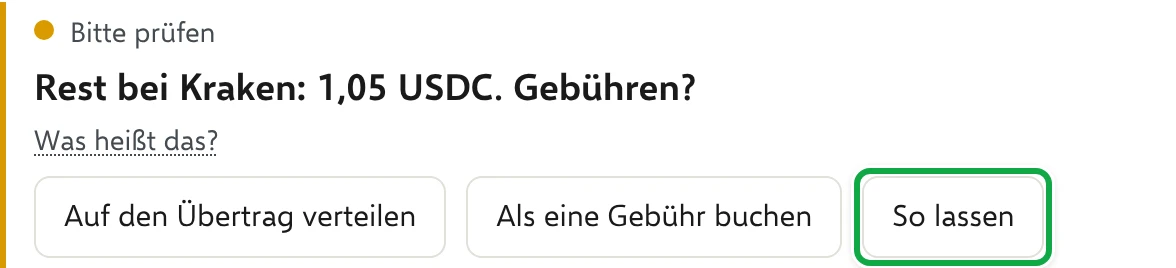
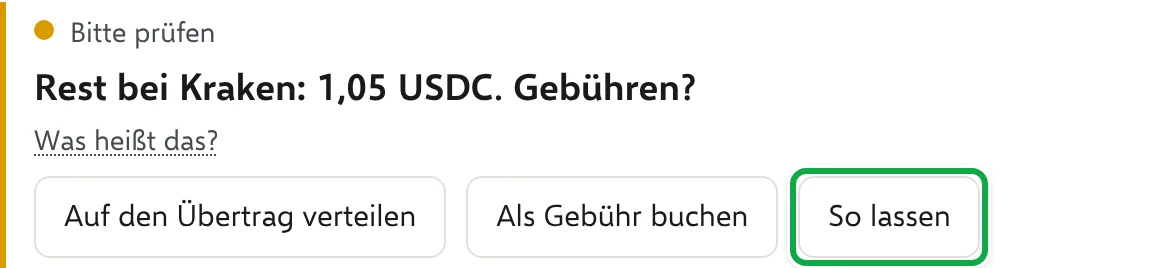
0.206, Phase 4: Anleitung (Abschnitt 14 am neuen Stand, Karte „Häufige Fragen“, Mac „Die App im Dock“, sechs Bilder neu aus Annas Durchlauf, Stand 27.11.2026)
Claude-Session: https://claude.ai/code/session_01XeVKBgoSBYpDyv6KvU9SMq

Changed region(s): [[0.4592, 0.6269, 0.9184, 1.0]]

diff --git a/anleitung.html b/anleitung.html
@@ -29,6 +29,7 @@
   die Zeile „Annas Stand im Tool“ (p.stand).
   Ab 0.203 (Florians Auftrag 0.203): zwei weitere Karten ohne Nummer, „Als Symbol auf deinem Gerät“ (#symbol, nach Abschnitt 1, vier Teile zum Aufklappen
   je Gerät, bei jeder Gerätewahl sichtbar) und „Deine Steuerzahlen“ (#steuer, nach „Deine Auswertung“, drei Bilder aus Annas Stand nach Stufe 1).
+  Ab 0.206 (Florians Auftrag 0.206): eine weitere Karte ohne Nummer, „Häufige Fragen“ (#fragen), als letzte Karte nach Abschnitt 15.
   Die Sprungmarken bleiben, das Tool verlinkt darauf (#mt5-verbinden, #report-speichern, #tag-daten, #reiter-wallet, #boerse-datei,
   #von-hand, ab 0.76 #tausch, ab 0.168 #dfx, ab 0.174 #abarbeiten). #anderes-tool (ab 0.76) verlinkt das Tool ab 0.170 nicht mehr (Florians Auftrag), die Sprungmarke bleibt.
   #noch-offen verlinkt das Tool ab 0.174 nicht mehr: Das (i) „Noch offen“ zeigt auf #abarbeiten, dort stehen die Farben (Florians Auftrag 0.174). Die Sprungmarke bleibt.
@@ -141,7 +142,7 @@ nav.toc .tocg>li{margin:0 0 6px;break-inside:avoid}
 nav.toc .tocg ul{padding-left:18px;margin:2px 0 0}
 nav.toc .tocg ul li{margin:0 0 2px}
 nav.toc a.grp{font-weight:600}
-/* Ab 0.173: letzte Gruppe (14 und 15) ohne Stufe, nicht eingerückt */
+/* Ab 0.173: letzte Gruppe (14 und 15, ab 0.206 dazu „Häufige Fragen“) ohne Stufe, nicht eingerückt */
 nav.toc .tocg>li.ohne>ul{padding-left:0;margin-top:0}
 @media (min-width:700px){nav.toc .tocg{columns:2;column-gap:32px}nav.toc .tocg>li.colb{break-before:column}}
 section{background:var(--card);border:1px solid var(--line);border-radius:var(--radius);padding:6px 20px 14px;margin:16px 0}
@@ -345,6 +346,7 @@ document.addEventListener('DOMContentLoaded',function(){
         <ul>
           <li><a href="#kontostand">14. Zur Kontrolle: der Kontostand (freiwillig)</a></li>
           <li><a href="#weiter">15. Wie es weitergeht</a></li>
+          <li><a href="#fragen">Häufige Fragen</a></li>
         </ul></li>
     </ul>
   </nav>
@@ -394,7 +396,8 @@ document.addEventListener('DOMContentLoaded',function(){
        Nachtrag 0.203 (Florians Auftrag): Ordner „Bilder“ als Beispiel, Satz zur neuen Version der Offline-Fassung, Android mit dem Weg in Vivaldi
        (von Florian am Handy abgelesen und mit Vivaldi geprüft) und der Empfehlung „Installieren“, „Gut zu wissen“ in neuer Fassung bei iPhone und Mac.
        Zweiter Nachtrag 0.203 (Florians Auftrag): Mac mit dem Alias für die Offline-Fassung (das Symbol einfügen ist nur dort genau beschrieben), Chrome am
-       Android-Handy mit „Installieren und Verknüpfung erstellen“ (von Florian abgelesen), „Neue Version der Datei“ in Anführungszeichen. -->
+       Android-Handy mit „Installieren und Verknüpfung erstellen“ (von Florian abgelesen), „Neue Version der Datei“ in Anführungszeichen.
+       0.206 (Florians Auftrag 0.206): „Gut zu wissen“ beim Mac mit „Die App im Dock“ statt „Das Symbol“; beim iPhone bleibt der Satz. -->
   <h3 class="st"><span>Als Symbol auf deinem Gerät</span></h3>
   <p>So öffnest du die Trading-Bilanz mit einem Tipp, wie eine App.</p>
   <details class="how">
@@ -420,7 +423,7 @@ document.addEventListener('DOMContentLoaded',function(){
     <summary>Mac</summary>
     <p>Das Symbol als Bild: <a href="https://trading-bilanz.github.io/icons/icon-trading-bilanz-512.png" download>Symbol als Bild (PNG, 512 px)&nbsp;↗</a></p>
     <p>In Safari (ab macOS 14): <b>„Ablage“</b>, <b>„Zum Dock hinzufügen“</b>. Oder zieh die Adresse aus der Adresszeile auf den Schreibtisch und gib ihr das Buch als Symbol, wie unten beim Alias beschrieben.</p>
-    <p class="small"><b>Gut zu wissen:</b> Das Symbol hat meist einen eigenen Speicher. Fehlen dort deine Daten, lade deine Sicherung. Nutze danach immer das Symbol.</p>
+    <p class="small"><b>Gut zu wissen:</b> Die App im Dock hat meist einen eigenen Speicher. Fehlen dort deine Daten, lade deine Sicherung. Nutze danach immer die App im Dock.</p>
     <p>Nutzt du die Offline-Fassung, machst du ein Alias deiner HTML-Datei: Rechtsklick auf die Datei, <b>„Alias erzeugen“</b>, und zieh das Alias auf den Schreibtisch. Für das Buch öffnest du das Bild (PNG) in „Vorschau“ und kopierst es. Dann Rechtsklick auf das Alias, <b>„Informationen“</b>, oben links auf das kleine Symbol klicken und einfügen. Bei einer neuen Version ersetzt du die alte Datei (gleicher Ort, gleicher Name), dann bleiben Alias und Daten (siehe <a href="#neue-version">„Neue Version der Datei“</a>).</p>
   </details>
 </section>
@@ -730,7 +733,7 @@ document.addEventListener('DOMContentLoaded',function(){
 <section id="von-hand">
   <h3 class="st"><span>10. Von Hand eintragen</span></h3>
   <p>Was keine Datei hat, trägst du von Hand ein, zum Beispiel einen Kauf bei einer anderen Börse oder einen Übertrag in deine Wallet. Öffne im Reiter „Wallet“ oben <b>„＋ Daten“</b> und wähle <b>„Von Hand“</b>.</p>
-  <figure class="k"><a href="anleitung/tool-von-hand.webp"><img src="anleitung/tool-von-hand.webp" width="778" height="419" alt="Liste Von Hand eintragen mit sechs nummerierten Zeilen, rechts ihre Knöpfe: 1 Tag mit Einzahlung, Auszahlung und Statt abtippen: aus Tag kopieren, 2 Börse mit Kauf und Verkauf, 3 Überträge mit Übertrag, 4 Karte mit Aufladung und (Karten-)Zahlung, 5 Anderes mit Neuer Eintrag, 6 Kontostand (freiwillig) mit Zum Bestand, oben rechts der Knopf So trägst du von Hand ein" loading="lazy"></a>
+  <figure class="k"><a href="anleitung/tool-von-hand.webp"><img src="anleitung/tool-von-hand.webp" width="778" height="419" alt="Liste Von Hand eintragen mit sechs nummerierten Zeilen, rechts ihre Knöpfe: 1 Tag mit Einzahlung, Auszahlung und Statt abtippen: aus Tag kopieren, 2 Börse mit Kauf und Verkauf, 3 Überträge mit Übertrag, 4 Karte mit Aufladung und (Karten-)Zahlung, 5 Anderes mit Neuer Eintrag, 6 Kontostand (freiwillig) mit Kontostände prüfen, oben rechts der Knopf So trägst du von Hand ein" loading="lazy"></a>
     <figcaption>Die Liste „Von Hand eintragen“. Jeder Knopf öffnet das passende Formular.</figcaption></figure>
   <p>Die Liste hat sechs Schritte: Tag, Börse, Überträge, Karte, Anderes und zuletzt, freiwillig, der Kontostand. Gehe sie von oben nach unten durch und lass die Punkte in „Noch offen“ liegen, bis du durch bist. Bei Schritt 1 musst du meist nichts tippen: <b>„Statt abtippen: aus Tag kopieren&nbsp;›“</b> führt zum Einfügen der Tag-Daten (<a href="#tag-daten">Abschnitt 7</a>). <b>„So trägst du von Hand ein“</b> rechts oben fasst das Vorgehen zusammen.</p>
   <p>Die Krypto-Karte steht in <a href="#karte">Abschnitt 11</a>, ein Tausch in <a href="#tausch">Abschnitt 12</a>, der Kontostand als freiwillige Kontrolle in <a href="#kontostand">Abschnitt 14</a>.</p>
@@ -908,7 +911,7 @@ document.addEventListener('DOMContentLoaded',function(){
   </ol>
   <p>Klicke auf <b>„Speichern“</b>. Findest du den Einkaufswert nicht, klicke am Punkt auf <b>„Ersatzwert bestätigen“</b>. Dann behältst du den Ersatzwert, kläre das mit deiner Steuerberatung. Das kannst du später zurücknehmen.</p>
   <h4>So lassen</h4>
-  <figure class="k"><a href="anleitung/tool-oz-so-lassen.webp"><img src="anleitung/tool-oz-so-lassen.webp" width="588" height="134" alt="Gelber Punkt Rest bei Kraken: 1,05 USDC. Gebühren?, darunter die Knöpfe Auf den Übertrag verteilen, Als eine Gebühr buchen und grün eingerahmt So lassen" loading="lazy"></a></figure>
+  <figure class="k"><a href="anleitung/tool-oz-so-lassen.webp"><img src="anleitung/tool-oz-so-lassen.webp" width="588" height="134" alt="Gelber Punkt Rest bei Kraken: 1,05 USDC. Gebühren?, darunter die Knöpfe Auf den Übertrag verteilen, Als Gebühr buchen und grün eingerahmt So lassen" loading="lazy"></a></figure>
   <p>Manche Punkte kannst oder willst du nicht klären. Bei Anna liegen nach dem Tausch vom 27.08. noch 1,05 USDC bei Kraken, und das Tool fragt, ob das Gebühren waren. Die Coins liegen wirklich dort: Anna klickt auf <b>„So lassen“</b>, dann fragt das Tool nicht wieder. Waren es Gebühren, nimm einen der anderen beiden Knöpfe.</p>
   <p>Fehlt dem Tool ein Einkauf, steht am Punkt unter „So löst du das“, was du tun kannst: <b>„Eintragen, woher sie kamen“</b>, <b>„Hatte ich schon“</b> oder <b>„So lassen“</b>. Mit „So lassen“ rechnet das Tool diesen Teil ohne Gewinn oder Verlust, und im Reiter „Steuer“ steht dazu ein Satz. Hängen andere Punkte an diesem Einkauf, nennt der Punkt sie als Folgen. Behebst du ihn, verschwinden sie von selbst.</p>
   <p>Unter <b>„Alle Punkte“</b> findest du solche Punkte bei „Mit „So lassen“ erledigt“ und kannst sie dort wieder anzeigen.</p>
@@ -928,12 +931,12 @@ document.addEventListener('DOMContentLoaded',function(){
 <section id="kontostand">
   <h3 class="st"><span>14. Zur Kontrolle: der Kontostand (freiwillig)</span></h3>
   <p>Hier vergleichst du, was deine Apps zeigen, mit dem, was das Tool aus deinen Einträgen rechnet. So merkst du, ob etwas fehlt.</p>
-  <p>Klicke im Reiter „Wallet“ in der Karte „Bestand jetzt“ auf <b>„Kontostände prüfen“</b>. Den gleichen Weg gibt es in <b>„＋ Daten“</b> bei <b>„Von Hand“</b> mit <b>„Zum Bestand“</b>.</p>
-  <figure class="k"><a href="anleitung/tool-kontostand.webp"><img src="anleitung/tool-kontostand.webp" width="640" height="542" alt="Fenster Kontostände prüfen: Bitvavo 6,23 USDC, Kraken 1,05 USDC, Meine Karte 66,90 USDC und Meine Wallet 50,00 USDC laut deinen Einträgen, grün eingerahmt die vier Felder Stand in deiner App, bei Unterschied je ein Haken" loading="lazy"></a></figure>
-  <p>Trage bei jeder Wallet ein, was deine App zeigt. Anna trägt alle vier Stände ein: 6,23 USDC bei Bitvavo, 1,05 USDC bei Kraken, 66,90 USDC auf der Krypto-Karte und 50 USDC in „Meine Wallet“. Passt ein Stand zu deinen Einträgen, steht bei „Unterschied“ ein ✓. Ab 0,01 Unterschied kommt ein Punkt in „Noch offen“.</p>
-  <figure><a href="anleitung/tool-wallet-fertig.webp"><img src="anleitung/tool-wallet-fertig.webp" width="820" height="524" alt="Reiter Wallet oben: Noch offen ohne Zahl, darunter die Karte Bestand jetzt mit Bitvavo 6,23 USDC, Kraken 1,05 USDC, Meine Karte 66,90 USDC und Meine Wallet 50,00 USDC, bei Abgleich überall ein Haken" loading="lazy"></a>
-    <figcaption>Bei Anna passen alle vier Stände: In der Karte „Bestand jetzt“ steht bei „Abgleich“ überall ein ✓.</figcaption></figure>
-  <p class="stand" data-stand="14"><b>Annas Stand im Tool:</b> Bitvavo 6,23 USDC ✓ · Kraken 1,05 USDC ✓ · Meine Karte 66,90 USDC ✓ · Meine Wallet 50,00 USDC ✓ · „Noch offen“ ohne Zahl</p>
+  <p>Klicke im Reiter „Wallet“ in der Karte „Bestand jetzt“ auf <b>„Kontostände prüfen“</b>. Den gleichen Weg gibt es in <b>„＋ Daten“</b> bei <b>„Von Hand“</b>, ebenfalls mit <b>„Kontostände prüfen“</b>.</p>
+  <figure class="k"><a href="anleitung/tool-kontostand.webp"><img src="anleitung/tool-kontostand.webp" width="640" height="452" alt="Fenster Kontostände prüfen: Bitvavo 6,23 USDC, Kraken 1,05 USDC, Meine Karte 66,90 USDC und Meine Wallet 50,00 USDC bei Im Tool, grün eingerahmt die vier Felder In der App abgelesen, bei Ergebnis je ein Haken mit Datum" loading="lazy"></a></figure>
+  <p>Lies in jeder App ab, wie viel dort steht, und trage es bei „In der App abgelesen“ ein. Anna trägt alle vier Werte ein: 6,23 USDC bei Bitvavo, 1,05 USDC bei Kraken, 66,90 USDC auf der Krypto-Karte und 50 USDC in „Meine Wallet“. Passt ein Wert zum Bestand im Tool, steht bei „Ergebnis“ ein ✓ mit dem Tag. Ab 0,01 Unterschied steht dort, wie viel im Tool fehlt oder zu viel ist, und es kommt ein Punkt in „Noch offen“. Dort siehst du, was du tun kannst.</p>
+  <figure><a href="anleitung/tool-wallet-fertig.webp"><img src="anleitung/tool-wallet-fertig.webp" width="820" height="524" alt="Reiter Wallet oben: Noch offen ohne Zahl, darunter die Karte Bestand jetzt mit Bitvavo 6,23 USDC, Kraken 1,05 USDC, Meine Karte 66,90 USDC und Meine Wallet 50,00 USDC" loading="lazy"></a>
+    <figcaption>Annas Reiter „Wallet“ am Ende: „Noch offen“ ohne Zahl, in „Bestand jetzt“ ihre vier Wallets.</figcaption></figure>
+  <p class="stand" data-stand="14"><b>Annas Stand im Tool:</b> Bitvavo 6,23 USDC · Kraken 1,05 USDC · Meine Karte 66,90 USDC · Meine Wallet 50,00 USDC · „Kontostände prüfen“ viermal ✓ · „Noch offen“ ohne Zahl</p>
 </section>
 
 <section id="weiter">
@@ -946,10 +949,20 @@ document.addEventListener('DOMContentLoaded',function(){
     <li>Speichere eine Sicherung.</li>
   </ol><!--/Q-->
 </section>
+
+<section id="fragen">
+  <!-- Ab 0.206 (Florians Auftrag 0.206, sein Wortlaut): Karte ohne Nummer nach Abschnitt 15, die letzte Karte der Seite. Je Frage ein fetter Absatz,
+       die Antwort als Absatz darunter. -->
+  <h3 class="st"><span>Häufige Fragen</span></h3>
+  <p><b>Die Zahlen im Tool stimmen nicht mit meinen Zahlen überein.</b></p>
+  <p>Hast du vielleicht auf € gestellt statt auf USD? Die Währung stellst du in der Filterzeile der Auswertung um.</p>
+  <p><b>Das Tool zeigt Coins in einer Wallet, die meine App nicht zeigt.</b></p>
+  <p>Vielleicht liegen sie auf einem anderen Netzwerk, z. B. Base. Gib deine Adresse im Block-Explorer ein und sieh dort nach.</p>
+</section>
 </main>
 
 <footer>
-  <p>Trading-Bilanz · Anleitung, Stand 26.11.2026 · <span class="nw">Keine Steuer- oder Finanzberatung.</span></p>
+  <p>Trading-Bilanz · Anleitung, Stand 27.11.2026 · <span class="nw">Keine Steuer- oder Finanzberatung.</span></p>
   <p><b>Datenschutz:</b> Diese Seite speichert nichts und lädt nur ihre eigenen Bilder. GitHub speichert beim Aufruf deine IP-Adresse (<a href="https://docs.github.com/en/site-policy/privacy-policies/github-general-privacy-statement" target="_blank" rel="noopener">Datenschutzerklärung von GitHub&nbsp;↗</a>).</p>
   <p><a href="https://weltenwandel.at/impressum.html" target="_blank" rel="noopener">Impressum&nbsp;↗</a> · <a href="mailto:florian@weltenwandel.at" target="_blank" rel="noopener">florian@weltenwandel.at</a> · <a class="nw" href="https://trading-bilanz.github.io" target="_blank" rel="noopener">Zur Trading-Bilanz</a></p>
 </footer>
